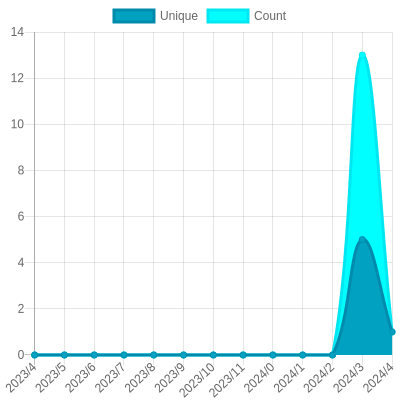
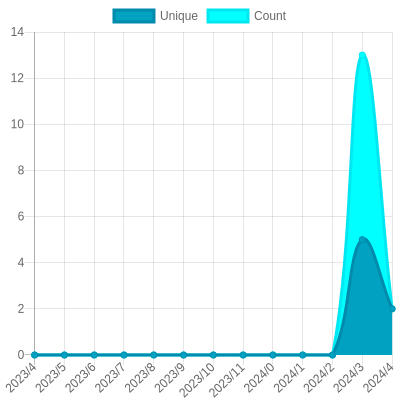
Update views

Changed region(s): [[0.93, 0.54, 0.99, 0.84], [0.93, 0.24, 0.96, 0.54]]

diff --git a/readme/574194437/year.md b/readme/574194437/year.md
@@ -23,10 +23,10 @@
 			<code>2023/5/1</code>
 		</td>
 		<td>
-			<code>1</code>
+			<code>2</code>
 		</td>
 		<td>
-			<code>1</code>
+			<code>2</code>
 		</td>
 	</tr>
 	<tr>
@@ -164,7 +164,7 @@
 </table>
 
 </details>
-<small><i>Last updated on 2023/5/9 12:51 AM UTC</i></small>
+<small><i>Last updated on 2023/5/9 6:12 AM UTC</i></small>
 
 ## ✂Copy and 📋 Paste
 ### SVG Badge

diff --git a/README.md b/README.md
@@ -245,7 +245,7 @@ The project created and maintained by [gayanvoice](https://github.com/gayanvoice
 	</tr>
 </table>
 
-<small><i>Last updated on 2023/5/9 12:53 AM UTC</i></small>
+<small><i>Last updated on 2023/5/9 6:14 AM UTC</i></small>
 
 ## ✂Copy and 📋 Paste
 ### Total Views Badge

diff --git a/readme/533325287/year.md b/readme/533325287/year.md
@@ -164,7 +164,7 @@
 </table>
 
 </details>
-<small><i>Last updated on 2023/5/9 12:52 AM UTC</i></small>
+<small><i>Last updated on 2023/5/9 6:13 AM UTC</i></small>
 
 ## ✂Copy and 📋 Paste
 ### SVG Badge

diff --git a/readme/538171767/year.md b/readme/538171767/year.md
@@ -164,7 +164,7 @@
 </table>
 
 </details>
-<small><i>Last updated on 2023/5/9 12:53 AM UTC</i></small>
+<small><i>Last updated on 2023/5/9 6:14 AM UTC</i></small>
 
 ## ✂Copy and 📋 Paste
 ### SVG Badge

diff --git a/readme/550124420/year.md b/readme/550124420/year.md
@@ -164,7 +164,7 @@
 </table>
 
 </details>
-<small><i>Last updated on 2023/5/9 12:52 AM UTC</i></small>
+<small><i>Last updated on 2023/5/9 6:13 AM UTC</i></small>
 
 ## ✂Copy and 📋 Paste
 ### SVG Badge

diff --git a/readme/577464192/year.md b/readme/577464192/year.md
@@ -164,7 +164,7 @@
 </table>
 
 </details>
-<small><i>Last updated on 2023/5/9 12:51 AM UTC</i></small>
+<small><i>Last updated on 2023/5/9 6:13 AM UTC</i></small>
 
 ## ✂Copy and 📋 Paste
 ### SVG Badge

diff --git a/readme/582324454/year.md b/readme/582324454/year.md
@@ -164,7 +164,7 @@
 </table>
 
 </details>
-<small><i>Last updated on 2023/5/9 12:51 AM UTC</i></small>
+<small><i>Last updated on 2023/5/9 6:12 AM UTC</i></small>
 
 ## ✂Copy and 📋 Paste
 ### SVG Badge

diff --git a/readme/583343420/year.md b/readme/583343420/year.md
@@ -164,7 +164,7 @@
 </table>
 
 </details>
-<small><i>Last updated on 2023/5/9 12:51 AM UTC</i></small>
+<small><i>Last updated on 2023/5/9 6:12 AM UTC</i></small>
 
 ## ✂Copy and 📋 Paste
 ### SVG Badge

diff --git a/readme/619231643/year.md b/readme/619231643/year.md
@@ -164,7 +164,7 @@
 </table>
 
 </details>
-<small><i>Last updated on 2023/5/9 12:53 AM UTC</i></small>
+<small><i>Last updated on 2023/5/9 6:13 AM UTC</i></small>
 
 ## ✂Copy and 📋 Paste
 ### SVG Badge

diff --git a/readme/625286651/year.md b/readme/625286651/year.md
@@ -164,7 +164,7 @@
 </table>
 
 </details>
-<small><i>Last updated on 2023/5/9 12:52 AM UTC</i></small>
+<small><i>Last updated on 2023/5/9 6:13 AM UTC</i></small>
 
 ## ✂Copy and 📋 Paste
 ### SVG Badge

diff --git a/readme/630928588/year.md b/readme/630928588/year.md
@@ -164,7 +164,7 @@
 </table>
 
 </details>
-<small><i>Last updated on 2023/5/9 12:52 AM UTC</i></small>
+<small><i>Last updated on 2023/5/9 6:13 AM UTC</i></small>
 
 ## ✂Copy and 📋 Paste
 ### SVG Badge

diff --git a/readme/631052544/year.md b/readme/631052544/year.md
@@ -164,7 +164,7 @@
 </table>
 
 </details>
-<small><i>Last updated on 2023/5/9 12:51 AM UTC</i></small>
+<small><i>Last updated on 2023/5/9 6:12 AM UTC</i></small>
 
 ## ✂Copy and 📋 Paste
 ### SVG Badge
